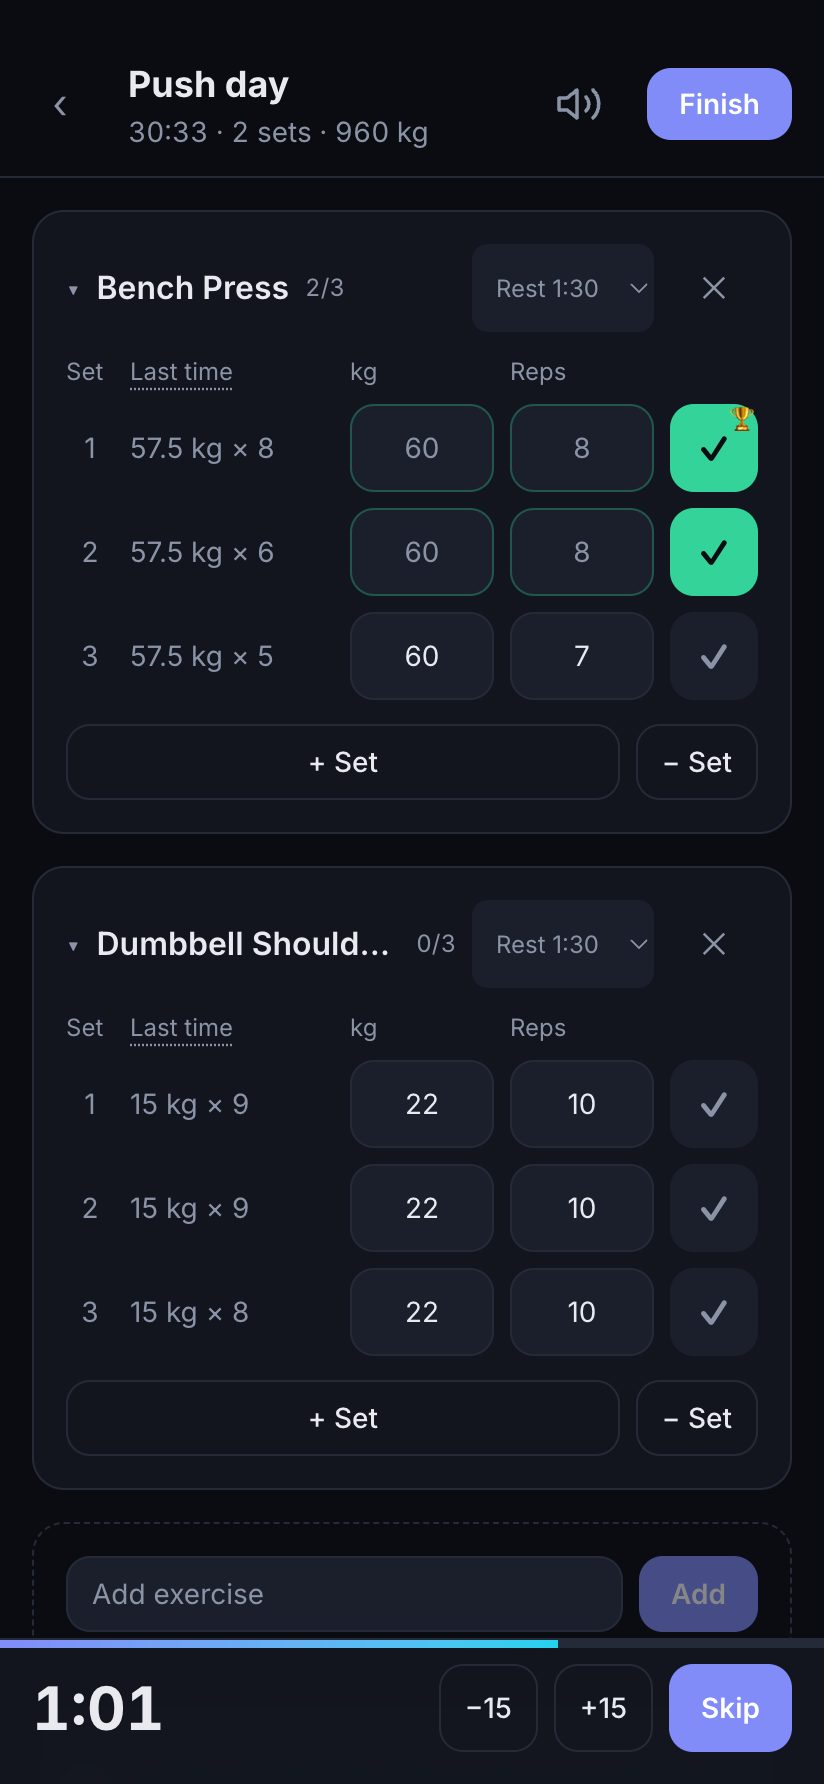
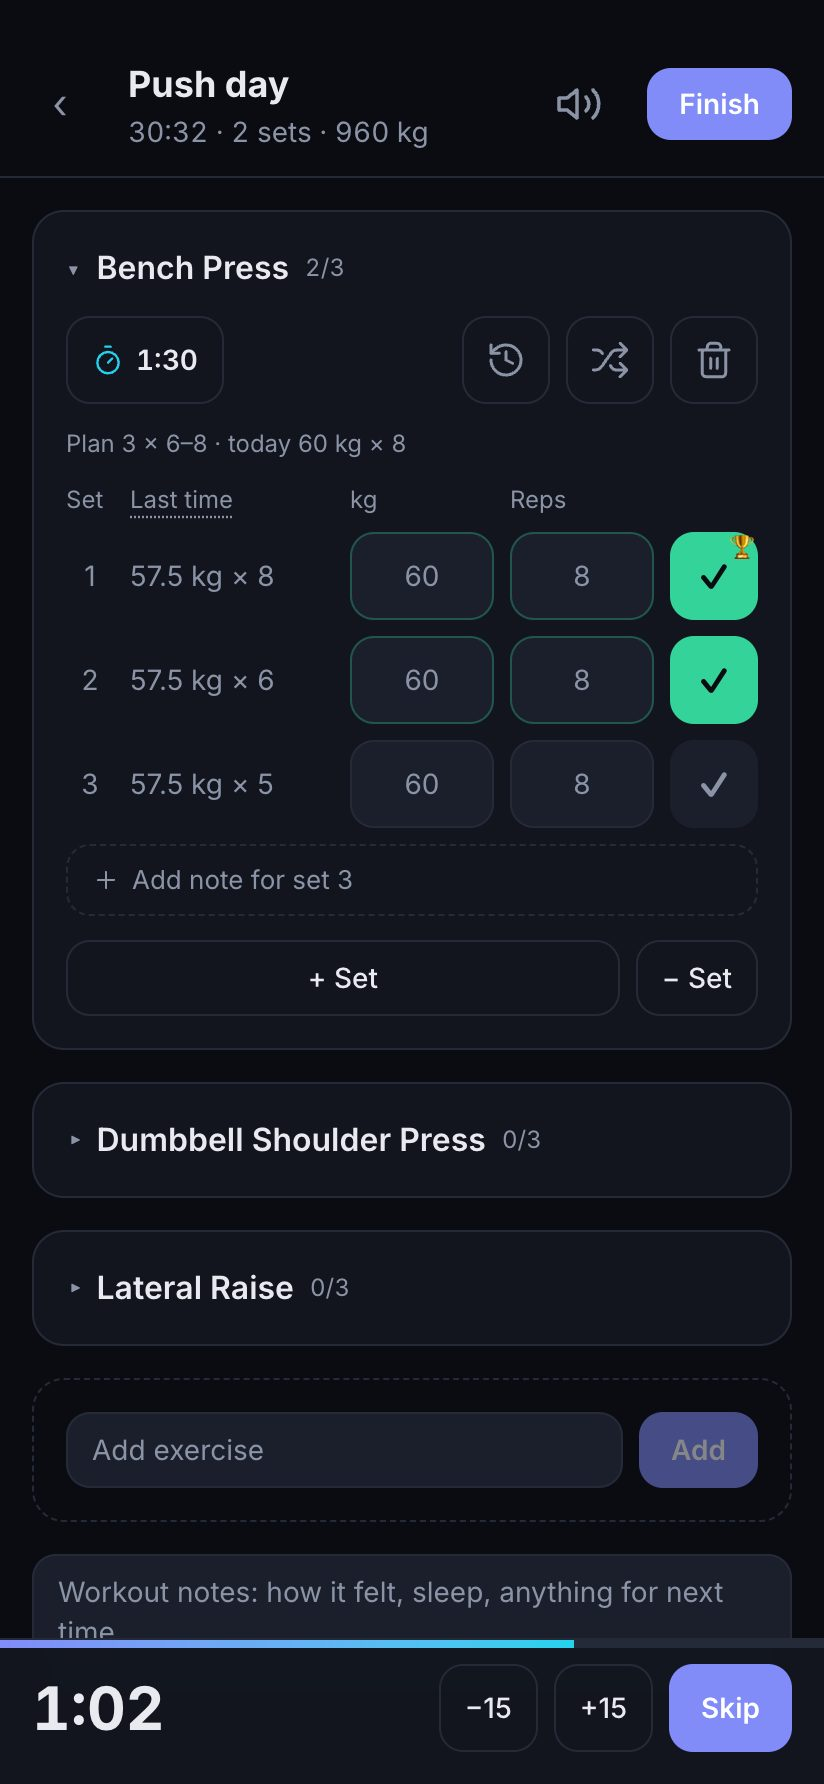
Link-preview image: phones fill their screens, current pitch and logger
The back phone's screenshot ended two-thirds down its frame and showed the
demo banner. Rebuilt from a template (site/og/og.html, not deployed): frames
match the screenshots' shape, both phones fit, made-up demo screens, and the
website's 'for £0, no account' pitch. The workout screenshot (also Android's
install screen and the brand book) is retaken with the new logger toolbar.

diff --git a/site/og/og.html b/site/og/og.html
@@ -1,0 +1,37 @@
+<!doctype html><html><head><meta charset="utf-8">
+<!-- The link-preview image (og.jpg) for reprun.co.uk and the app. Not deployed.
+     To re-render: open this file in a browser at 1200 × 630 (or a Playwright screenshot at deviceScaleFactor 2),
+     scale the PNG to 1200 × 630 and save as JPEG under ~250 KB (WhatsApp drops big ones), then copy it to
+     site/public/og.jpg and public/og.jpg. Phones are the demo screenshots in public/screenshots (made-up data only). --><style>
+@font-face { font-family: Inter; src: url(../public/fonts/inter-400.woff2); font-weight: 400; }
+@font-face { font-family: Inter; src: url(../public/fonts/inter-600.woff2); font-weight: 600; }
+@font-face { font-family: Inter; src: url(../public/fonts/inter-800.woff2); font-weight: 800; }
+* { margin: 0; padding: 0; box-sizing: border-box; }
+body { width: 1200px; height: 630px; overflow: hidden; position: relative; font-family: Inter, sans-serif; color: #e8eaf0; -webkit-font-smoothing: antialiased;
+  background: radial-gradient(800px 500px at 85% 20%, rgb(129 140 248 / 0.16), transparent 60%), radial-gradient(600px 400px at 75% 110%, rgb(34 211 238 / 0.12), transparent 60%), #0a0c11; }
+.copy { position: absolute; left: 72px; top: 0; bottom: 0; width: 560px; display: flex; flex-direction: column; justify-content: center; }
+.brand { display: flex; align-items: center; gap: 20px; margin-bottom: 36px; }
+.brand img { width: 92px; height: 92px; }
+.brand b { font-weight: 800; font-size: 72px; letter-spacing: -0.035em; }
+.g { background: linear-gradient(90deg, #818cf8, #22d3ee); -webkit-background-clip: text; background-clip: text; color: transparent; }
+h1 { font-weight: 800; font-size: 46px; line-height: 1.08; letter-spacing: -0.035em; margin-bottom: 14px; }
+p { font-size: 23px; color: #8b93a7; margin-bottom: 30px; }
+.chips { display: flex; flex-wrap: wrap; gap: 10px; }
+.chips span { border: 1px solid #242a38; background: rgb(18 21 29 / 0.8); border-radius: 999px; padding: 9px 16px; font-size: 19px; font-weight: 600; color: #c9cdd8; }
+/* Frames match the screenshots' shape (824 × 1784), so each screen fills its phone edge to edge. */
+.phone { position: absolute; width: 236px; aspect-ratio: 824 / 1784; padding: 9px; border-radius: 40px;
+  background: linear-gradient(160deg, #2a3040, #12151d 40%, #1a1f2b); box-shadow: 0 0 0 1.5px #2e3546, 0 40px 80px -20px rgb(0 0 0 / 0.85), 0 0 120px -30px rgb(129 140 248 / 0.5); }
+.phone .screen { width: 100%; height: 100%; border-radius: 32px; overflow: hidden; position: relative; background: #0a0c11; }
+.phone .screen img { width: 100%; height: 100%; object-fit: cover; display: block; }
+.back { left: 700px; top: 66px; transform: rotate(-6deg); opacity: 0.92; }
+.front { left: 900px; top: 44px; transform: rotate(4deg); }
+</style></head><body>
+<div class="copy">
+  <div class="brand"><img src="../public/favicon.svg" alt=""><b>Rep<span class="g">Run</span></b></div>
+  <h1>Your gym and running app, for <span class="g">£0</span>.</h1>
+  <p>No account, no subscription, open source.</p>
+  <div class="chips"><span>Live workout logger</span><span>Routines + progression</span><span>PBs &amp; charts</span><span>Strava runs</span></div>
+</div>
+<div class="phone back"><div class="screen"><img src="../../public/screenshots/home.jpg" alt=""></div></div>
+<div class="phone front"><div class="screen"><img src="../../public/screenshots/workout.jpg" alt=""></div></div>
+</body></html>

diff --git a/CLAUDE.md b/CLAUDE.md
@@ -23,6 +23,7 @@ the mark, buttons, components, motion timings, iPhone feel, voice (with say/don'
 
 - Use the tokens, never a new hex. The real values live in `src/index.css` (`@theme`, the app) and `site/public/index.html` (`:root`, the website); change a token in all three places at once.
 - Adding a colour, component, animation or rule? Add it to the brand book in the same commit.
+- The link-preview image (`og.jpg`, used by the website and the app) is rendered from `site/og/og.html`; the steps are in that file.
 - New logos, screenshots, reels or carousels go in `site/public/brand/assets/` and get a card in section 09. Screenshots only from the demo's made-up data, never real history.
 
 ## Commands
